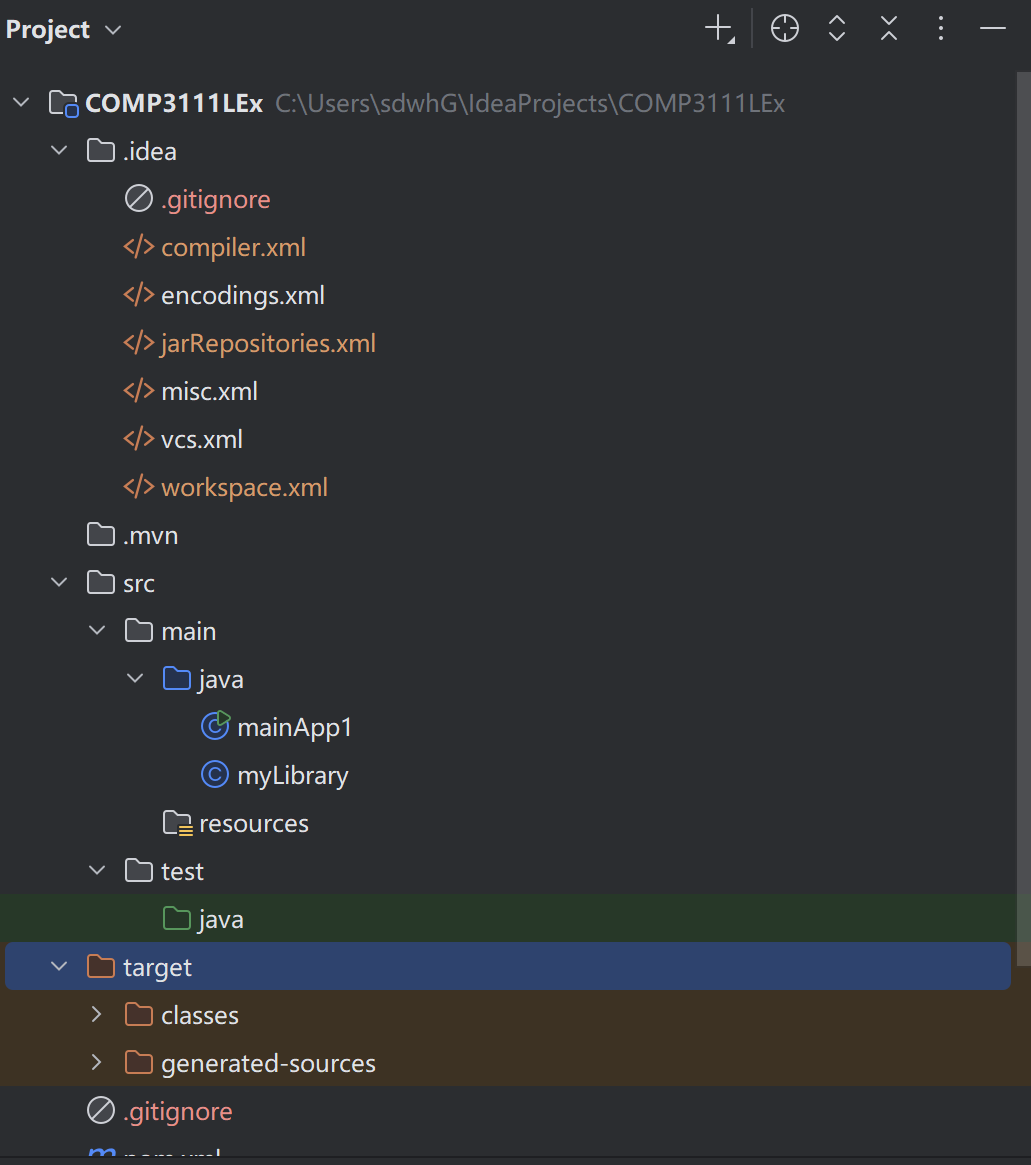
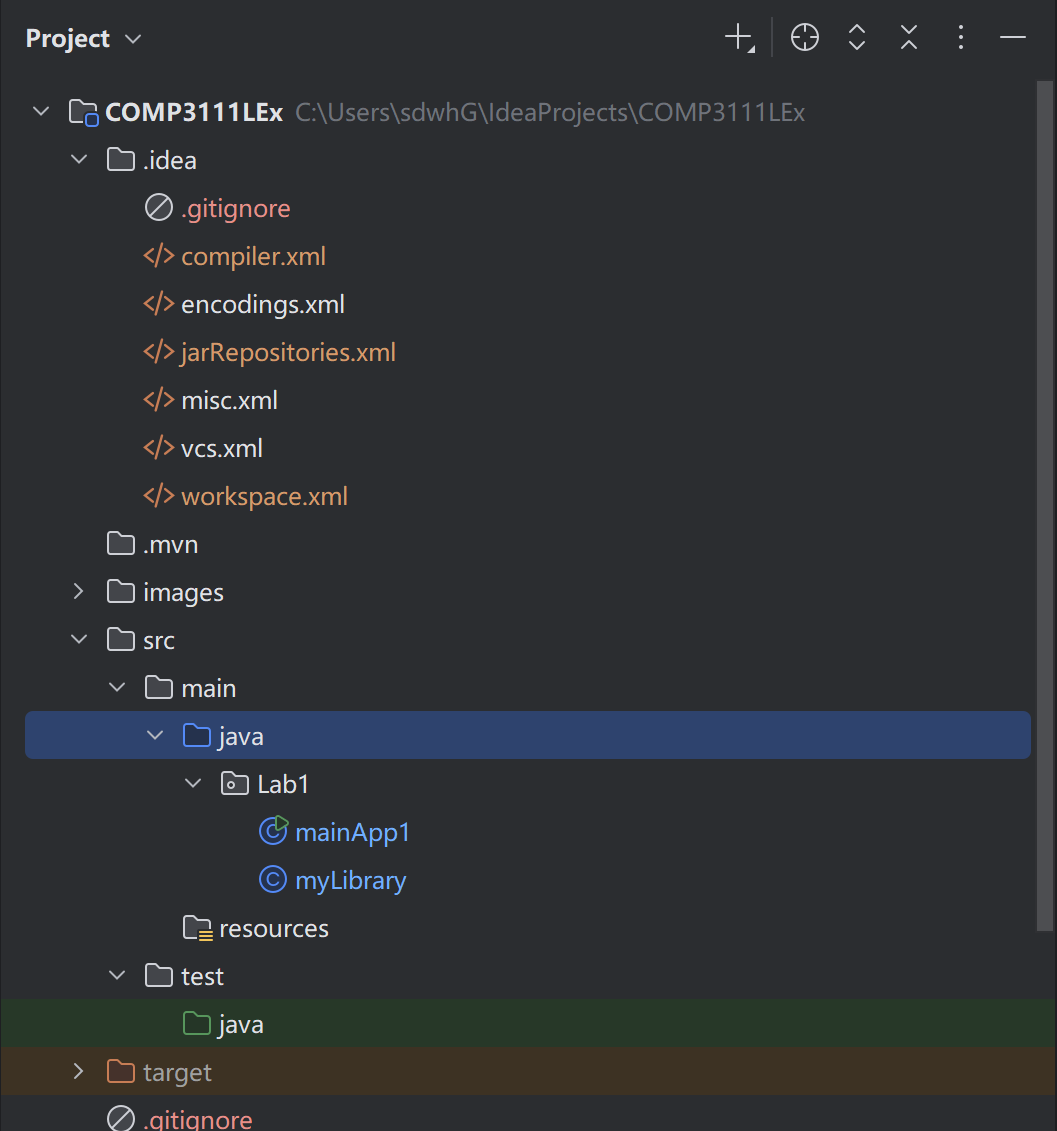
New

Changed region(s): [[0.0, 0.0, 1.0, 1.0], [0.7449, 0.0, 0.7759, 0.0619], [0.838, 0.0, 0.8691, 0.0309]]

diff --git a/src/main/java/Lab1/myLibrary.java b/src/main/java/Lab1/myLibrary.java
@@ -1,3 +1,5 @@
+package Lab1;
+
 public class myLibrary {
 public static int Power(int Base, int Exponent){
     if (Exponent==1){

diff --git a/src/main/java/Lab1/mainApp1.java b/src/main/java/Lab1/mainApp1.java
@@ -1,3 +1,5 @@
+package Lab1;
+
 public class mainApp1 {
     public static void main(String[] args) {
         int b = 2;

diff --git a/readme.md b/readme.md
@@ -1,5 +1,5 @@
-- `src/main/java/Lab1/myLibrary.java` - Utility class with power and factorial methods
-- `src/main/java/Lab1/mainApp1.java` - Main application class
+- `src/main/java/Lab1/Lab1.myLibrary.java` - Utility class with power and factorial methods
+- `src/main/java/Lab1/Lab1.mainApp1.java` - Main application class
 
 ![](images/5a.png)
 ![](images/5b.png)
